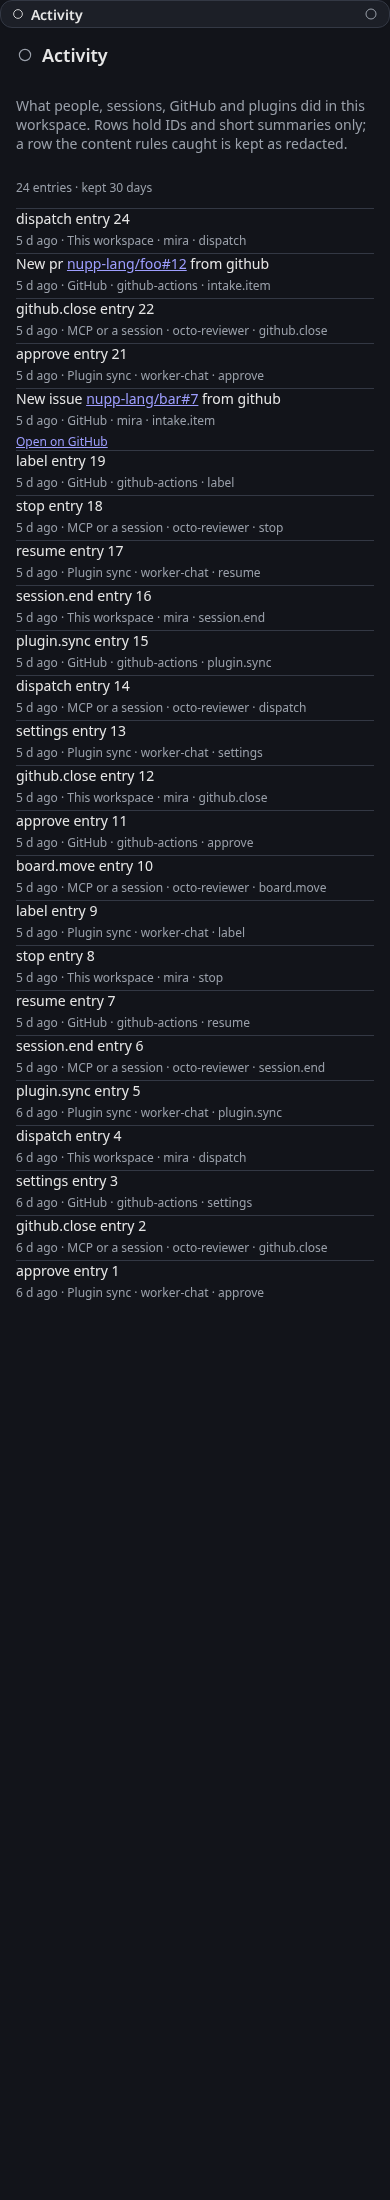
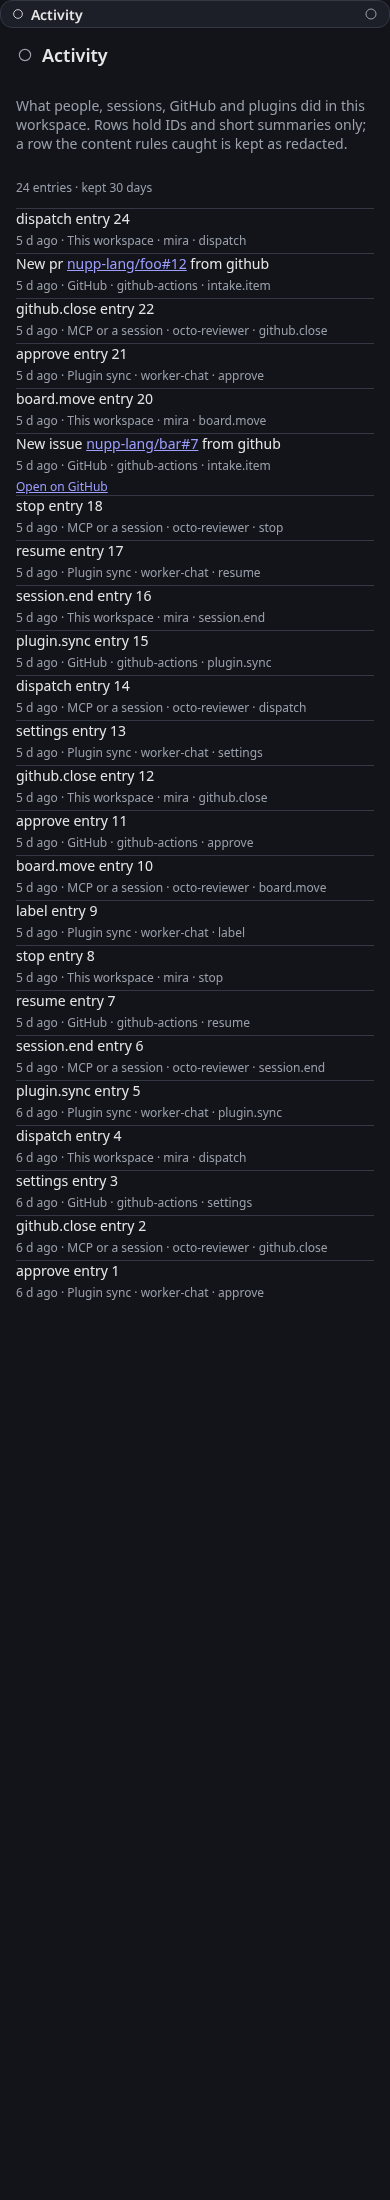
Link GitHub items through linkHref, gate harness rows

Changed region(s): [[0.0308, 0.1545, 0.7077, 0.2473]]

diff --git a/kirocrew-app/ui/test/browser/harness.tsx b/kirocrew-app/ui/test/browser/harness.tsx
@@ -1361,9 +1361,11 @@ if (query.get('page') === 'activity' || query.get('activity') === '1') {
     return { seq, at: new Date(Date.parse('2026-11-13T10:00:00Z') - at * 3600e3).toISOString(), source: sources[at % 4], actor: actors[(at * 3) % 4], kind: kinds[at % kinds.length], summary: `${kinds[at % kinds.length]} entry ${seq}`, targetId: null, link: null, redacted: false }
   })
   // New items from GitHub: the owner/repo#N text links to the item.
-  all[1] = { ...all[1], source: 'github', kind: 'intake.item', summary: 'New pr nupp-lang/foo#12 from github', link: null }
-  all[4] = { ...all[4], source: 'github', kind: 'intake.item', summary: 'New issue nupp-lang/bar#7 from github', link: 'https://github.com/nupp-lang/bar/issues/7' }
-  kinds.push('intake.item')
+  if (query.get('ghitems') === '1') {
+    all[1] = { ...all[1], source: 'github', kind: 'intake.item', summary: 'New pr nupp-lang/foo#12 from github', link: null }
+    all[5] = { ...all[5], source: 'github', kind: 'intake.item', summary: 'New issue nupp-lang/bar#7 from github', link: 'https://github.com/nupp-lang/bar/issues/7' }
+    kinds.push('intake.item')
+  }
   const count = (key: 'source' | 'kind' | 'actor') => {
     const out: Record<string, number> = {}
     for (const row of all) out[row[key]] = (out[row[key]] ?? 0) + 1

diff --git a/kirocrew-app/ui/src/ActivityView.tsx b/kirocrew-app/ui/src/ActivityView.tsx
@@ -59,7 +59,7 @@ function Summary({ row }: { row: ActivityRow }) {
     return (
       <span style={{ overflowWrap: 'anywhere' }}>
         {item.before}
-        <a href={item.href} target="_blank" rel="noopener noreferrer" className="underline" data-activity-item>
+        <a href={linkHref(item.href)} target="_blank" rel="noopener noreferrer" className="underline" data-activity-item>
           {item.text}
         </a>
         {item.after}
